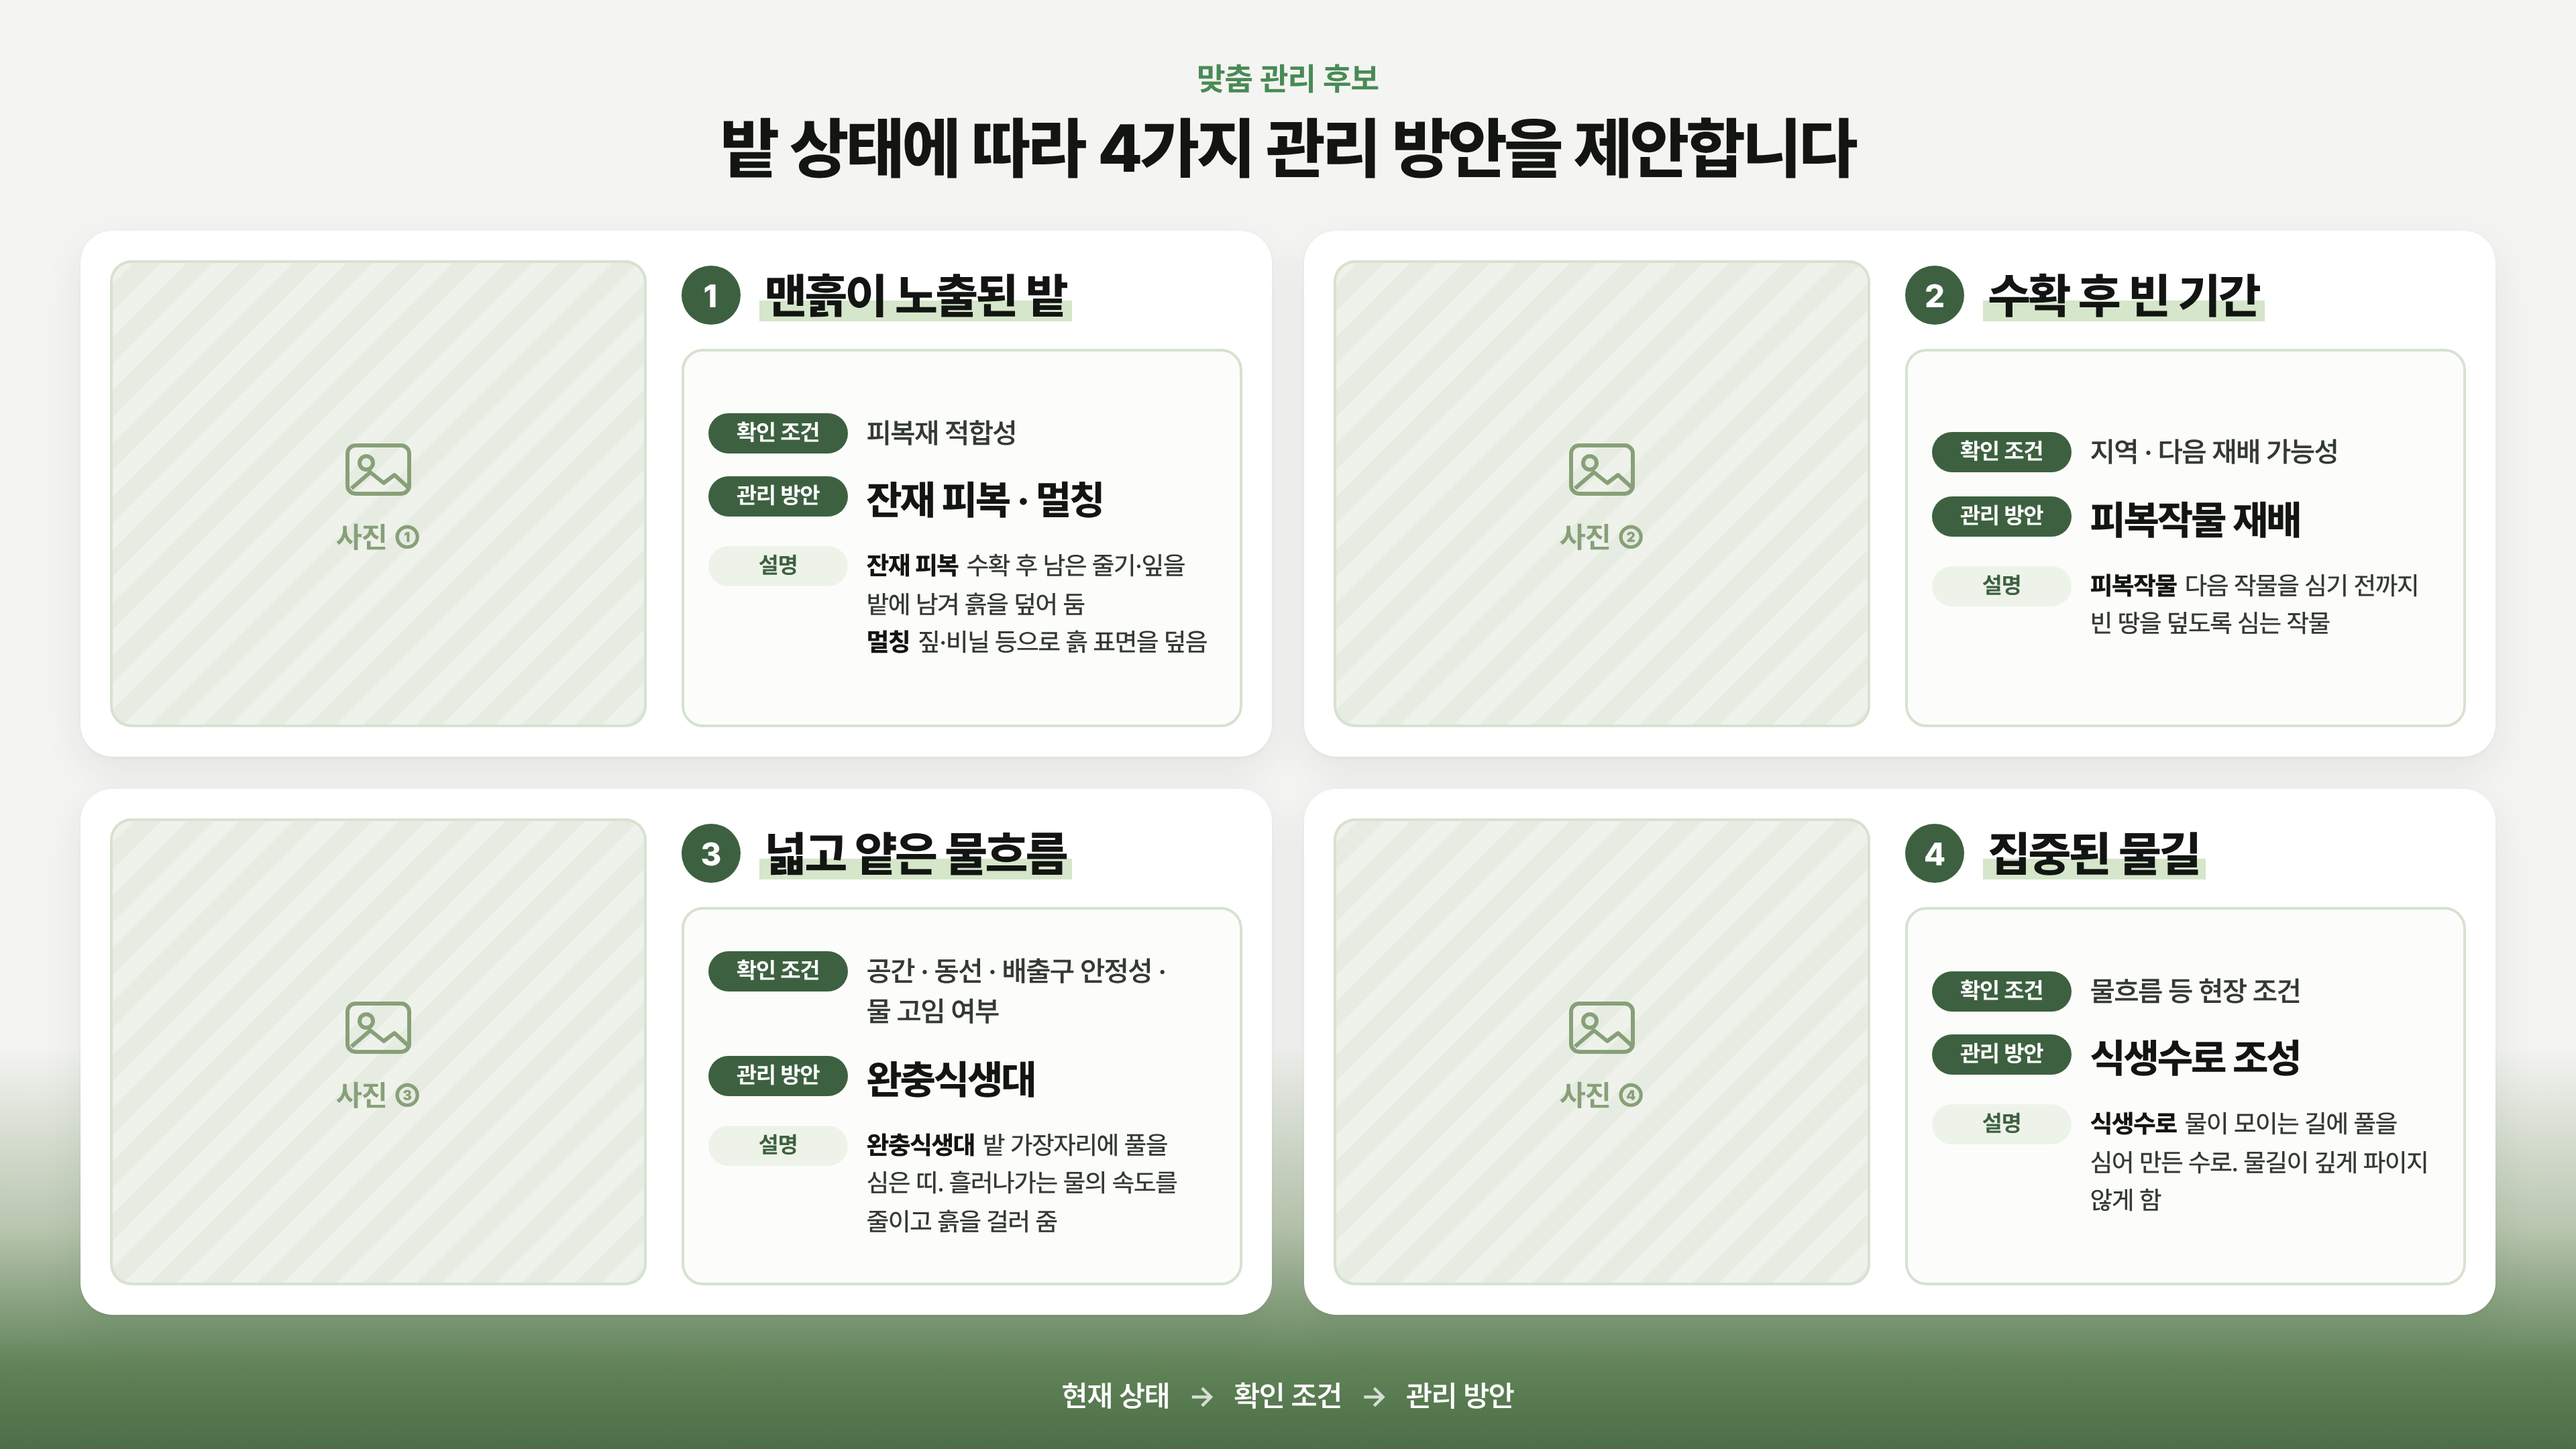
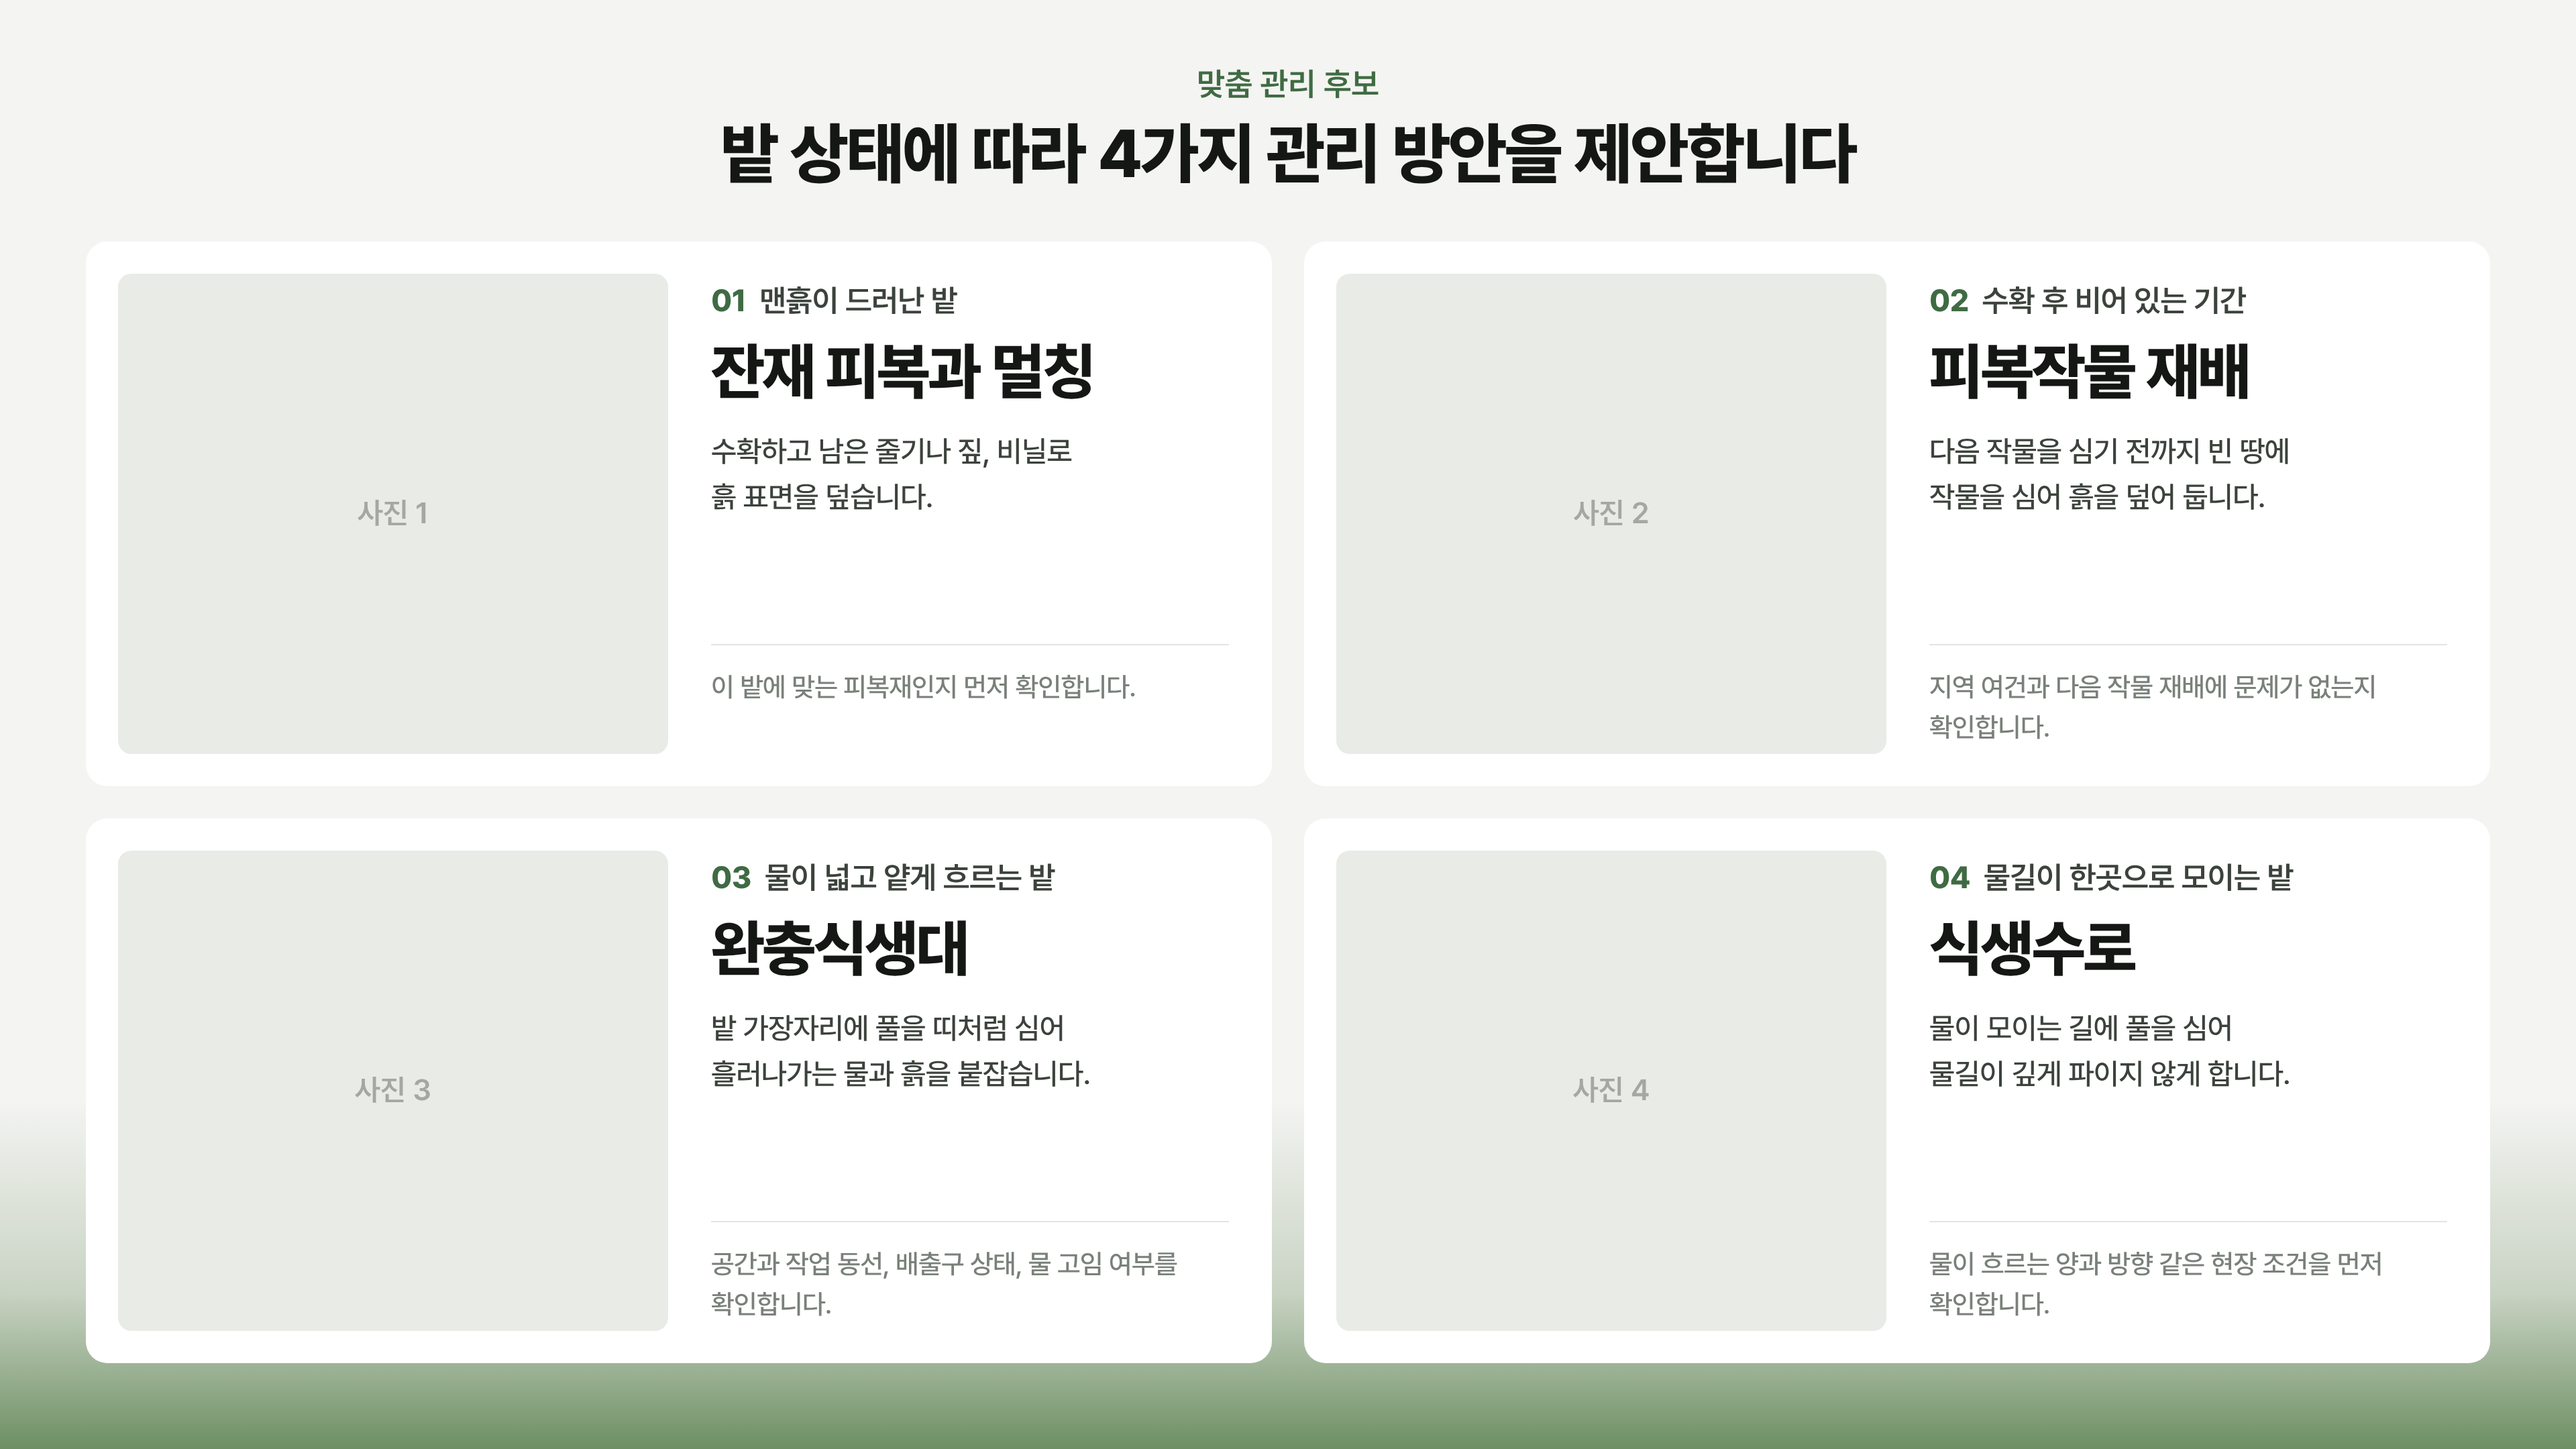
Simplify 2x2 management slide: drop labels and decoration, plain sentences
Claude-Session: https://claude.ai/code/session_01AXtWMuJ4Mn9XoFya2k7XtN

diff --git a/slides/관리방안_4가지/slide_quad.html b/slides/관리방안_4가지/slide_quad.html
@@ -7,15 +7,11 @@
   :root {
     --bg: #f4f4f2;
     --card: #ffffff;
-    --deep: #3d6140;      /* forest green: pills, number badges */
-    --accent: #4a8a55;
-    --sage: #88a078;
-    --tint: #eef3ea;
-    --hl: #d5e6ca;        /* title highlight */
-    --line: #d6e2cf;
-    --ink: #121512;
-    --ink-2: #333a33;
-    --ink-3: #6f7a6f;
+    --green: #3f6b43;
+    --ink: #151715;
+    --ink-2: #3c423c;
+    --ink-3: #7a807a;
+    --rule: #e3e6e0;
   }
   * { box-sizing: border-box; margin: 0; padding: 0; }
   html, body { background: var(--bg); }
@@ -24,48 +20,28 @@
     font-family: "Pretendard", system-ui, sans-serif; color: var(--ink);
     -webkit-font-smoothing: antialiased; word-break: keep-all;
   }
-  /* deck-style green wash at the bottom */
-  .wash { position: absolute; left: 0; right: 0; bottom: 0; height: 300px;
-          background: linear-gradient(180deg, rgba(136,160,120,0) 0%, rgba(136,160,120,.55) 45%, #5f8257 80%, #4d6e47 100%); }
-  .guide { position: absolute; left: 0; right: 0; bottom: 26px; text-align: center;
-           font-size: 22px; font-weight: 600; color: #fff; letter-spacing: -0.2px; }
-  .guide span { opacity: .75; margin: 0 14px; }
+  .wash { position: absolute; left: 0; right: 0; bottom: 0; height: 260px;
+          background: linear-gradient(180deg, rgba(120,150,108,0) 0%, rgba(120,150,108,.35) 55%, #6d8f63 100%); }
 
-  .head { position: absolute; top: 44px; left: 0; right: 0; text-align: center; }
-  .kicker { font-size: 24px; font-weight: 700; color: var(--accent); }
+  .head { position: absolute; top: 48px; left: 0; right: 0; text-align: center; }
+  .kicker { font-size: 24px; font-weight: 600; color: var(--green); }
   .title  { margin-top: 8px; font-size: 50px; font-weight: 800; letter-spacing: -1.3px; }
 
-  .grid { position: absolute; left: 60px; right: 60px; top: 172px; height: 808px;
+  .grid { position: absolute; left: 64px; right: 64px; top: 180px; bottom: 64px;
           display: grid; grid-template-columns: 1fr 1fr; grid-template-rows: 1fr 1fr; gap: 24px; }
-  .q { background: var(--card); border-radius: 24px; padding: 22px; display: flex; gap: 26px;
-       box-shadow: 0 1px 2px rgba(0,0,0,.04), 0 10px 30px rgba(40,70,40,.08); }
+  .q { background: var(--card); border-radius: 16px; padding: 24px; display: flex; gap: 32px; }
 
-  .photo { position: relative; width: 400px; flex: none; border-radius: 16px; overflow: hidden;
-           background: repeating-linear-gradient(135deg, #eef2eb 0 14px, #e6ece2 14px 28px);
-           box-shadow: inset 0 0 0 2px var(--line); }
+  .photo { position: relative; width: 410px; flex: none; border-radius: 10px; overflow: hidden; background: #e9ebe6; }
   .photo img { position: absolute; inset: 0; width: 100%; height: 100%; object-fit: cover; }
-  .photo .ph { position: absolute; inset: 0; display: grid; place-content: center; gap: 10px; text-align: center;
-               color: var(--sage); font-size: 22px; font-weight: 700; }
-  .photo .ph svg { width: 56px; height: 56px; margin: 0 auto; }
+  .photo .ph { position: absolute; inset: 0; display: grid; place-items: center; color: #a3a8a1; font-size: 22px; font-weight: 600; }
 
-  .body { flex: 1; min-width: 0; display: flex; flex-direction: column; padding-top: 4px; }
-  .top { display: flex; align-items: center; gap: 14px; }
-  .no { width: 44px; height: 44px; flex: none; border-radius: 50%; background: var(--deep); color: #fff;
-        display: grid; place-items: center; font-size: 24px; font-weight: 800; }
-  .state { font-size: 36px; font-weight: 800; letter-spacing: -1px; white-space: nowrap;
-           background: linear-gradient(transparent 58%, var(--hl) 58%, var(--hl) 94%, transparent 94%); padding: 0 4px; }
-  .tag { margin-top: 8px; margin-left: 58px; font-size: 17px; font-weight: 600; color: var(--ink-3); }
-
-  .rows { flex: 1; margin-top: 18px; border: 2px solid var(--line); border-radius: 16px; padding: 18px 18px;
-          display: flex; flex-direction: column; justify-content: center; gap: 16px; background: #fcfdfb; }
-  .row { display: flex; align-items: flex-start; gap: 14px; }
-  .pill { flex: none; width: 104px; text-align: center; background: var(--deep); color: #fff; border-radius: 999px;
-          padding: 5px 0; font-size: 17px; font-weight: 700; letter-spacing: -0.2px; }
-  .pill.lite { background: var(--tint); color: var(--deep); }
-  .val { font-size: 21px; font-weight: 600; color: var(--ink-2); line-height: 1.45; letter-spacing: -0.3px; padding-top: 1px; }
-  .val.big { font-size: 30px; font-weight: 800; color: var(--ink); line-height: 1.2; letter-spacing: -0.8px; padding-top: 0; }
-  .val.small { font-size: 19px; font-weight: 500; line-height: 1.5; }
-  .val.small b { font-weight: 800; color: var(--ink); margin-right: 6px; }
+  .txt { flex: 1; min-width: 0; display: flex; flex-direction: column; padding: 6px 8px 4px 0; }
+  .state { font-size: 23px; font-weight: 600; color: var(--ink-2); letter-spacing: -0.3px; }
+  .state em { font-style: normal; font-weight: 800; color: var(--green); margin-right: 10px; }
+  .measure { margin-top: 14px; font-size: 46px; font-weight: 800; letter-spacing: -1.5px; line-height: 1.12; }
+  .desc { margin-top: 16px; font-size: 22px; font-weight: 500; color: var(--ink-2); line-height: 1.55; letter-spacing: -0.3px; }
+  .check { margin-top: auto; min-height: 78px; padding-top: 16px; border-top: 1px solid var(--rule);
+           font-size: 20px; font-weight: 500; color: var(--ink-3); line-height: 1.5; letter-spacing: -0.3px; }
 </style>
 </head>
 <body>
@@ -77,57 +53,45 @@
   </div>
 
   <div class="grid">
-
     <div class="q">
-      <div class="photo"><div class="ph"><svg viewBox="0 0 56 56" fill="none" stroke="currentColor" stroke-width="3" stroke-linejoin="round"><rect x="5" y="10" width="46" height="36" rx="6"/><circle cx="19" cy="23" r="5"/><path d="M8 42l14-12 10 8 8-6 11 10"/></svg>사진 ①</div><img src="photos/1.jpg" alt="" onerror="this.remove()"></div>
-      <div class="body">
-        <div class="top"><div class="no">1</div><div class="state">맨흙이 노출된 밭</div></div>
-        <div class="rows">
-          <div class="row"><span class="pill">확인 조건</span><span class="val">피복재 적합성</span></div>
-          <div class="row"><span class="pill">관리 방안</span><span class="val big">잔재 피복 · 멀칭</span></div>
-          <div class="row"><span class="pill lite">설명</span><span class="val small"><b>잔재 피복</b>수확 후 남은 줄기·잎을 밭에 남겨 흙을 덮어 둠<br><b>멀칭</b>짚·비닐 등으로 흙 표면을 덮음</span></div>
-        </div>
+      <div class="photo"><div class="ph">사진 1</div><img src="photos/1.jpg" alt="" onerror="this.remove()"></div>
+      <div class="txt">
+        <div class="state"><em>01</em>맨흙이 드러난 밭</div>
+        <div class="measure">잔재 피복과 멀칭</div>
+        <div class="desc">수확하고 남은 줄기나 짚, 비닐로<br>흙 표면을 덮습니다.</div>
+        <div class="check">이 밭에 맞는 피복재인지 먼저 확인합니다.</div>
       </div>
     </div>
 
     <div class="q">
-      <div class="photo"><div class="ph"><svg viewBox="0 0 56 56" fill="none" stroke="currentColor" stroke-width="3" stroke-linejoin="round"><rect x="5" y="10" width="46" height="36" rx="6"/><circle cx="19" cy="23" r="5"/><path d="M8 42l14-12 10 8 8-6 11 10"/></svg>사진 ②</div><img src="photos/2.jpg" alt="" onerror="this.remove()"></div>
-      <div class="body">
-        <div class="top"><div class="no">2</div><div class="state">수확 후 빈 기간</div></div>
-        <div class="rows">
-          <div class="row"><span class="pill">확인 조건</span><span class="val">지역 · 다음&nbsp;재배&nbsp;가능성</span></div>
-          <div class="row"><span class="pill">관리 방안</span><span class="val big">피복작물 재배</span></div>
-          <div class="row"><span class="pill lite">설명</span><span class="val small"><b>피복작물</b>다음 작물을 심기 전까지 빈 땅을 덮도록 심는 작물</span></div>
-        </div>
+      <div class="photo"><div class="ph">사진 2</div><img src="photos/2.jpg" alt="" onerror="this.remove()"></div>
+      <div class="txt">
+        <div class="state"><em>02</em>수확 후 비어 있는 기간</div>
+        <div class="measure">피복작물 재배</div>
+        <div class="desc">다음 작물을 심기 전까지 빈 땅에<br>작물을 심어 흙을 덮어 둡니다.</div>
+        <div class="check">지역 여건과 다음 작물 재배에 문제가 없는지 확인합니다.</div>
       </div>
     </div>
 
     <div class="q">
-      <div class="photo"><div class="ph"><svg viewBox="0 0 56 56" fill="none" stroke="currentColor" stroke-width="3" stroke-linejoin="round"><rect x="5" y="10" width="46" height="36" rx="6"/><circle cx="19" cy="23" r="5"/><path d="M8 42l14-12 10 8 8-6 11 10"/></svg>사진 ③</div><img src="photos/3.jpg" alt="" onerror="this.remove()"></div>
-      <div class="body">
-        <div class="top"><div class="no">3</div><div class="state">넓고 얕은 물흐름</div></div>
-        <div class="rows">
-          <div class="row"><span class="pill">확인 조건</span><span class="val">공간 · 동선 · 배출구&nbsp;안정성 · 물&nbsp;고임&nbsp;여부</span></div>
-          <div class="row"><span class="pill">관리 방안</span><span class="val big">완충식생대</span></div>
-          <div class="row"><span class="pill lite">설명</span><span class="val small"><b>완충식생대</b>밭 가장자리에 풀을 심은 띠. 흘러나가는 물의 속도를 줄이고 흙을 걸러 줌</span></div>
-        </div>
+      <div class="photo"><div class="ph">사진 3</div><img src="photos/3.jpg" alt="" onerror="this.remove()"></div>
+      <div class="txt">
+        <div class="state"><em>03</em>물이 넓고 얕게 흐르는 밭</div>
+        <div class="measure">완충식생대</div>
+        <div class="desc">밭 가장자리에 풀을 띠처럼 심어<br>흘러나가는 물과 흙을 붙잡습니다.</div>
+        <div class="check">공간과 작업 동선, 배출구 상태, 물 고임 여부를 확인합니다.</div>
       </div>
     </div>
 
     <div class="q">
-      <div class="photo"><div class="ph"><svg viewBox="0 0 56 56" fill="none" stroke="currentColor" stroke-width="3" stroke-linejoin="round"><rect x="5" y="10" width="46" height="36" rx="6"/><circle cx="19" cy="23" r="5"/><path d="M8 42l14-12 10 8 8-6 11 10"/></svg>사진 ④</div><img src="photos/4.jpg" alt="" onerror="this.remove()"></div>
-      <div class="body">
-        <div class="top"><div class="no">4</div><div class="state">집중된 물길</div></div>
-        <div class="rows">
-          <div class="row"><span class="pill">확인 조건</span><span class="val">물흐름 등 현장 조건</span></div>
-          <div class="row"><span class="pill">관리 방안</span><span class="val big">식생수로 조성</span></div>
-          <div class="row"><span class="pill lite">설명</span><span class="val small"><b>식생수로</b>물이 모이는 길에 풀을 심어 만든 수로. 물길이 깊게 파이지 않게 함</span></div>
-        </div>
+      <div class="photo"><div class="ph">사진 4</div><img src="photos/4.jpg" alt="" onerror="this.remove()"></div>
+      <div class="txt">
+        <div class="state"><em>04</em>물길이 한곳으로 모이는 밭</div>
+        <div class="measure">식생수로</div>
+        <div class="desc">물이 모이는 길에 풀을 심어<br>물길이 깊게 파이지 않게 합니다.</div>
+        <div class="check">물이 흐르는 양과 방향 같은 현장 조건을 먼저 확인합니다.</div>
       </div>
     </div>
-
   </div>
-
-  <div class="guide">현재 상태<span>→</span>확인 조건<span>→</span>관리 방안</div>
 </body>
 </html>
